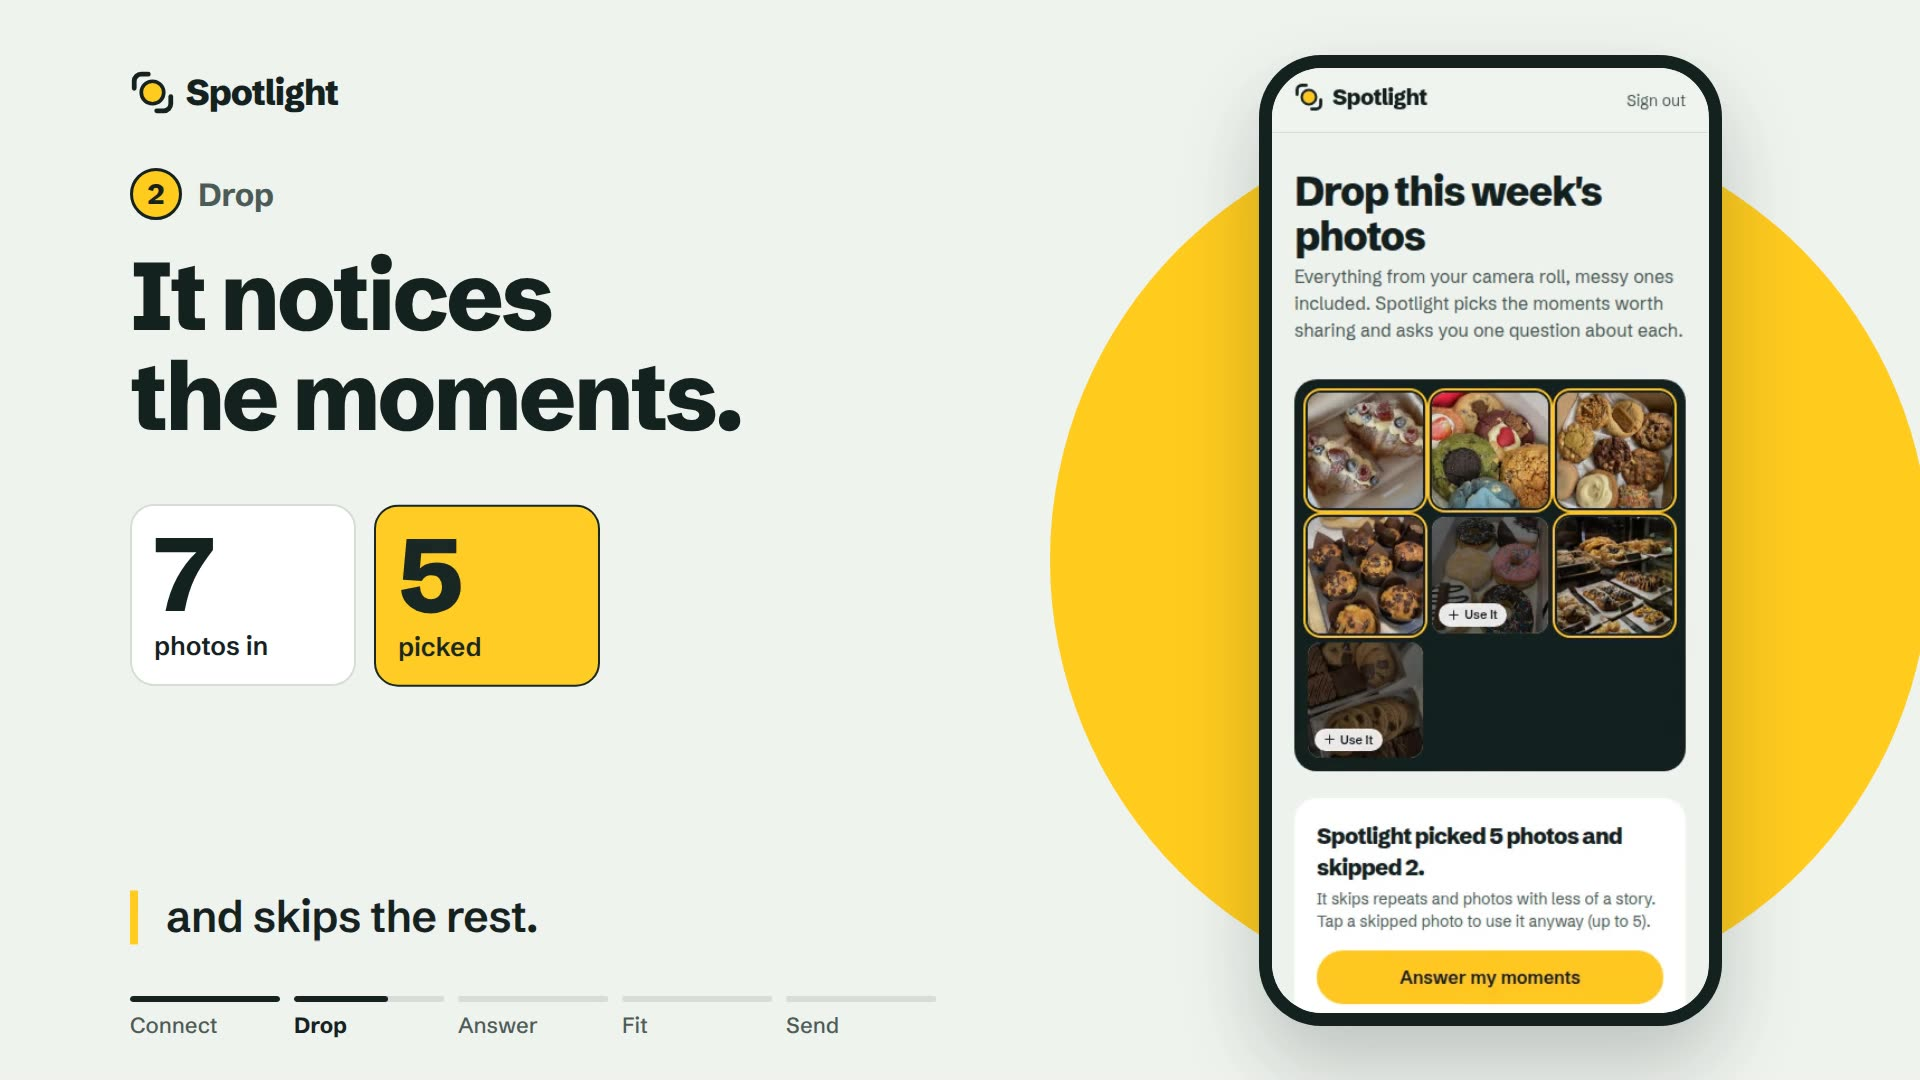
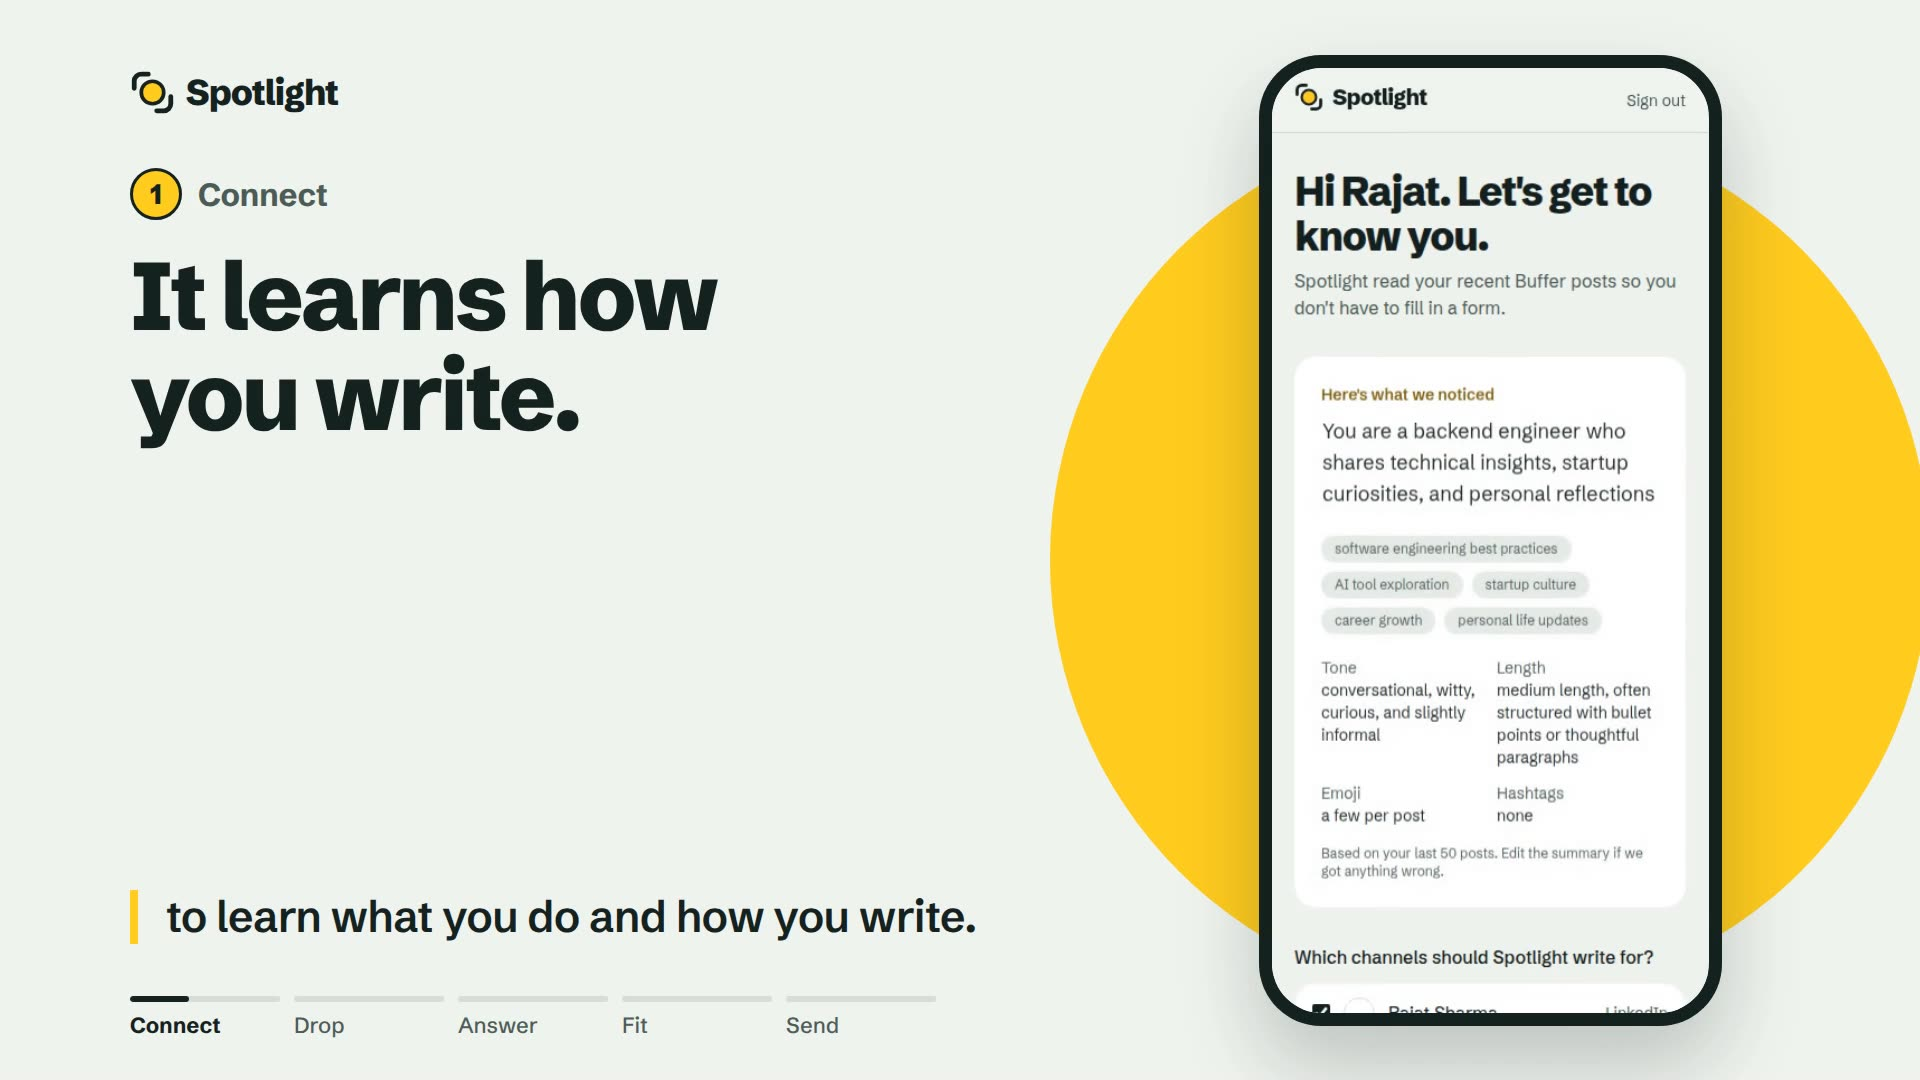
Use free-license photos for the sample week and landing page
The sample week, the hero photo row and the demo poster now use Unsplash
photos (Unsplash License), credited in the README. Sample moments, answers
and posts are rewritten to match the new photos, which live under a new
sample-v2 folder on Blob.

Local builds can skip Next's in-build type check with SKIP_BUILD_TYPECHECK=1
to stay within a small memory budget. Vercel and CI never set it.

diff --git a/src/lib/sample.ts b/src/lib/sample.ts
@@ -6,7 +6,9 @@ import { ruleFor } from "@/lib/channels";
 // posts are precomputed so the whole flow (including real Buffer calls) works
 // even when every free AI quota is used up.
 
-export const SAMPLE_PHOTO_BASE = "https://i1ikllg7y8rxw8mn.public.blob.vercel-storage.com/sample";
+// Photos from Unsplash (Unsplash License), stored at stable public URLs because Buffer
+// fetches media when it publishes. Credits in the README.
+export const SAMPLE_PHOTO_BASE = "https://i1ikllg7y8rxw8mn.public.blob.vercel-storage.com/sample-v2";
 const photo = (name: string) => `${SAMPLE_PHOTO_BASE}/${name}.jpg`;
 
 type SampleMoment = {
@@ -21,9 +23,9 @@ type SampleMoment = {
 export const SAMPLE_MOMENTS: SampleMoment[] = [
   {
     title: "The berry croissant debut",
-    observation: "Two croissants split and filled with vanilla cream, piled with raspberries and blueberries.",
+    observation: "Two seeded croissants split open and filled with cream, raspberries and blueberries.",
     question: "What gave you the idea for these berry croissants?",
-    photos: [{ url: photo("croissants"), alt: "Two croissants filled with vanilla cream and topped with raspberries and blueberries in a box" }],
+    photos: [{ url: photo("croissants"), alt: "Two seeded croissants split open and filled with whipped cream, raspberries and blueberries on a white plate" }],
     sampleAnswer:
       "These berry croissants started as leftovers. I had blueberries and raspberries from a cake order and a tray of croissants from the morning, so I split them, piped in vanilla cream and just piled the berries on top. First batch ever, and all eight sold before lunch. Three people asked if they'd be back on Saturday. So I guess they're back on Saturday.",
     posts: {
@@ -39,48 +41,48 @@ export const SAMPLE_MOMENTS: SampleMoment[] = [
   },
   {
     title: "The cookie box favourite",
-    observation: "A box of stuffed cookies: matcha with an Oreo, red velvet, a bright blue one and a caramel crunch.",
+    observation: "A box of loaded cookies, one topped with an Oreo, and a bright green matcha cookie with white chocolate chunks.",
     question: "Which flavour in this box disappears first?",
     photos: [
-      { url: photo("cookie-box"), alt: "A box of six stuffed cookies including matcha, red velvet and a bright blue cookie" },
-      { url: photo("cookies-assorted"), alt: "A box of assorted cookies on parchment paper" },
+      { url: photo("cookie-box"), alt: "An open gift box of six loaded cookies with almonds, chocolate drizzle, a caramel biscuit and an Oreo on top" },
+      { url: photo("cookie-matcha"), alt: "A green matcha cookie with white chocolate chunks on a wooden board" },
     ],
     sampleAnswer:
-      "Matcha Oreo, every single time. I almost didn't make it because I thought matcha was too niche, and now people message me just to ask if it's in the box this week. The blue one is cookie monster. That's for the kids. And honestly for me.",
+      "The matcha one, every single time. I almost didn't make it because I thought matcha was too niche, and now people message me just to ask if it's in the box this week. The Oreo one is for the kids. And honestly for me.",
     posts: {
-      twitter: "Matcha Oreo, every single time. I almost didn't make it because I thought matcha was too niche. Now people message me just to ask if it's in the box this week.",
+      twitter: "The matcha one, every single time. I almost didn't make it because I thought matcha was too niche. Now people message me just to ask if it's in the box this week.",
       linkedin:
-        "Matcha Oreo. Every single time.\n\nI almost didn't make it because I thought matcha was too niche. Now people message me just to ask if it's in the box this week.\n\nThe blue one is cookie monster. That's for the kids. And honestly, for me.",
+        "The matcha one. Every single time.\n\nI almost didn't make it because I thought matcha was too niche. Now people message me just to ask if it's in the box this week.\n\nThe Oreo one is for the kids. And honestly, for me.",
       instagram:
-        "Matcha Oreo, every single time 💚 I almost didn't make it because I thought matcha was too niche, and now people message me just to ask if it's in the box this week.\n\nThe blue one is cookie monster. That's for the kids. And honestly for me 💙\n\n#cookiebox #matcha",
+        "The matcha one, every single time 💚 I almost didn't make it because I thought matcha was too niche, and now people message me just to ask if it's in the box this week.\n\nThe Oreo one is for the kids. And honestly for me 🍪\n\n#cookiebox #matcha",
       default:
-        "Matcha Oreo, every single time. I almost didn't make it because I thought matcha was too niche, and now people message me just to ask if it's in the box this week. The blue one is cookie monster. That's for the kids. And honestly for me.",
+        "The matcha one, every single time. I almost didn't make it because I thought matcha was too niche, and now people message me just to ask if it's in the box this week. The Oreo one is for the kids. And honestly for me.",
     },
   },
   {
     title: "The first festive batch",
-    observation: "Chocolate chip muffins in brown tulip cases, with a tiny Christmas tree in the background.",
-    question: "What's the story behind the little tree in the back?",
-    photos: [{ url: photo("muffins"), alt: "Chocolate chip muffins in brown paper cases with a small Christmas tree behind them" }],
+    observation: "Chocolate cupcakes in shiny green cases with sprinkles and a glittery Christmas tree on top.",
+    question: "What's the story behind the little trees on top?",
+    photos: [{ url: photo("cupcakes-festive"), alt: "A chocolate cupcake in a green foil case topped with sprinkles and a glitter Christmas tree pick" }],
     sampleAnswer:
-      "The mini tree went up on Monday and the chocolate chip muffins got the brown tulip cases. It's still November, I know, but the kitchen feels like December already. And honestly so do I.",
+      "The glitter trees came out on Monday and went straight onto the chocolate cupcakes, green cases and all. It's still November, I know, but the kitchen feels like December already. And honestly so do I.",
     posts: {
-      twitter: "The mini tree went up on Monday and the chocolate chip muffins got the brown tulip cases. It's still November, I know. The kitchen feels like December already. So do I.",
+      twitter: "The glitter trees came out on Monday and went straight onto the chocolate cupcakes, green cases and all. It's still November, I know. The kitchen feels like December already. So do I.",
       linkedin:
-        "The mini tree went up on Monday, and the chocolate chip muffins got the brown tulip cases.\n\nIt's still November, I know. But the kitchen feels like December already.\n\nAnd honestly, so do I.",
+        "The glitter trees came out on Monday and went straight onto the chocolate cupcakes, green cases and all.\n\nIt's still November, I know. But the kitchen feels like December already.\n\nAnd honestly, so do I.",
       instagram:
-        "The mini tree went up on Monday 🎄 and the chocolate chip muffins got their brown tulip cases. It's still November, I know, but the kitchen feels like December already. And honestly so do I.\n\n#festivebaking #muffins",
+        "The glitter trees came out on Monday 🎄 and went straight onto the chocolate cupcakes, green cases and all. It's still November, I know, but the kitchen feels like December already. And honestly so do I.\n\n#festivebaking #cupcakes",
       default:
-        "The mini tree went up on Monday and the chocolate chip muffins got the brown tulip cases. It's still November, I know, but the kitchen feels like December already. And honestly so do I.",
+        "The glitter trees came out on Monday and went straight onto the chocolate cupcakes, green cases and all. It's still November, I know, but the kitchen feels like December already. And honestly so do I.",
     },
   },
   {
     title: "Ten minutes before opening",
-    observation: "A full display case: rows of pastries, labels in place, every shelf stocked.",
+    observation: "A full counter of labelled croissants and pastries, and trays of pain au chocolat and custard tarts.",
     question: "What does the counter look like ten minutes before you open?",
     photos: [
-      { url: photo("display-case"), alt: "A glass display case full of pastries on labelled trays" },
-      { url: photo("display-trays"), alt: "Trays of doughnuts and cinnamon rolls on a bakery rack" },
+      { url: photo("display-case"), alt: "A bakery counter with rows of labelled croissants and pastries under warm lights" },
+      { url: photo("display-trays"), alt: "Trays of pain au chocolat and custard tarts lined up on a counter" },
     ],
     sampleAnswer:
       "Ten minutes before we open, it's full. Every tray filled, labels straight, coffee on. Ten minutes later it's chaos and by noon the top shelf is empty. Those ten minutes are my favourite part of the week.",

diff --git a/src/app/app/page.tsx b/src/app/app/page.tsx
@@ -31,7 +31,7 @@ export default async function AppHome() {
     limit: 20,
   });
   const recentPhotos = waiting.flatMap((m) => m.photos.map((p) => p.url)).slice(0, 3);
-  const stack = recentPhotos.length === 3 ? recentPhotos : [photo("cookie-box"), photo("muffins"), photo("croissants")];
+  const stack = recentPhotos.length === 3 ? recentPhotos : [photo("cookie-box"), photo("cupcakes-festive"), photo("croissants")];
   const calendar = upcomingCalendarMoments(user.channels[0]?.timezone ?? user.timezone);
   const name = firstName(user);
 

diff --git a/src/app/page.tsx b/src/app/page.tsx
@@ -10,7 +10,7 @@ import { getCurrentUser } from "@/lib/session";
 import "./landing.css";
 
 /* A range of small businesses, not one trade. */
-const RANGE = ["pottery-wheel", "barber", "florist", "threads", "yoga-class", "plants", "bakery-cookie-box"];
+const RANGE = ["pottery-wheel", "barber", "florist", "threads", "yoga-class", "plants", "bakery-box"];
 
 export default async function Home({ searchParams }: PageProps<"/">) {
   const [user, params] = await Promise.all([getCurrentUser(), searchParams]);

diff --git a/next.config.ts b/next.config.ts
@@ -1,6 +1,10 @@
 import type { NextConfig } from "next";
 
 const nextConfig: NextConfig = {
+  // Low-memory local builds can skip the in-build type check (Next's memory guide) with
+  // SKIP_BUILD_TYPECHECK=1, after running `npm run typecheck` on its own. Vercel and CI
+  // never set it, so they still type-check.
+  typescript: { ignoreBuildErrors: process.env.SKIP_BUILD_TYPECHECK === "1" },
   turbopack: {
     rules: {
       "*.css": {

diff --git a/README.md b/README.md
@@ -81,4 +81,32 @@ Tests use Node's built-in test runner with type stripping, so there's no test fr
 | `src/app/app/` | The signed-in app: home, photos, moments, profile |
 | `tests/` | Unit tests |
 
+## Photo credits
+
+Every photo in the app is from [Unsplash](https://unsplash.com), used under the [Unsplash License](https://unsplash.com/license). Landing page photos live in `public/landing/`; the sample week's photos are on Vercel Blob (Buffer needs stable public URLs to publish them).
+
+| File | Unsplash photo |
+|---|---|
+| Sample: `croissants` | [photo-1639390150902](https://images.unsplash.com/photo-1639390150902-8f1b3916e14b) |
+| Sample: `cookie-box`, landing: `bakery-box` | [photo-1772651392135](https://images.unsplash.com/photo-1772651392135-b891a5e4f8a3) |
+| Sample: `cookie-matcha` | [photo-1757345016219](https://images.unsplash.com/photo-1757345016219-7b3b8a1b9fba) |
+| Sample: `cupcakes-festive` | [photo-1639098620661](https://images.unsplash.com/photo-1639098620661-3d47712d8a2a) |
+| Sample: `display-case` | [photo-1705972018470](https://images.unsplash.com/photo-1705972018470-a89eda1c6ce4) |
+| Sample: `display-trays` | [photo-1483695028939](https://images.unsplash.com/photo-1483695028939-5bb13f8648b0) |
+| `barber` | [photo-1647140655214](https://images.unsplash.com/photo-1647140655214-e4a2d914971f) |
+| `bike-workshop` | [photo-1760310936486](https://images.unsplash.com/photo-1760310936486-4dd450aab2a8) |
+| `candles` | [photo-1764822553647](https://images.unsplash.com/photo-1764822553647-b3a680513eaf) |
+| `florist` | [photo-1586973698216](https://images.unsplash.com/photo-1586973698216-0c4c285d7afd) |
+| `flowers-vase` | [photo-1587317996237](https://images.unsplash.com/photo-1587317996237-eddd7e834d84) |
+| `market` | [photo-1649533663539](https://images.unsplash.com/photo-1649533663539-03ac9165d80b) |
+| `owner-cafe` | [photo-1753351052363](https://images.unsplash.com/photo-1753351052363-53ce102830eb) |
+| `owner-potter` | [photo-1753164726596](https://images.unsplash.com/photo-1753164726596-0018b81ab993) |
+| `plants` | [photo-1758524052155](https://images.unsplash.com/photo-1758524052155-f3a6fea3084e) |
+| `pottery-hands` | [photo-1589051088132](https://images.unsplash.com/photo-1589051088132-06f36a22012a) |
+| `pottery-wheel` | [photo-1595351298020](https://images.unsplash.com/photo-1595351298020-038700609878) |
+| `sewing` | [photo-1517840545241](https://images.unsplash.com/photo-1517840545241-b491010a8af4) |
+| `tattoo` | [photo-1775135981378](https://images.unsplash.com/photo-1775135981378-4e7c1767436d) |
+| `threads` | [photo-1578353022142](https://images.unsplash.com/photo-1578353022142-09264fd64295) |
+| `yoga-class` | [photo-1787647090390](https://images.unsplash.com/photo-1787647090390-890c94512cee) |
+
 Made by Rajat for Buffer Commit 2026. Not affiliated with Buffer.
